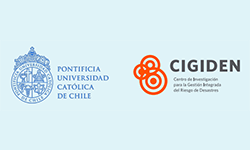
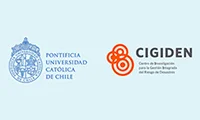
RS letter A, B, C, D and E

diff --git a/src/styles/abcde.css b/src/styles/abcde.css
@@ -981,8 +981,8 @@ span {
 }
 
 .slink_element > img {
- width: 250px;
- height: 150px;
+ width: auto;
+ height: auto;
 }
 
 @media screen and (max-width: 1024px) {
